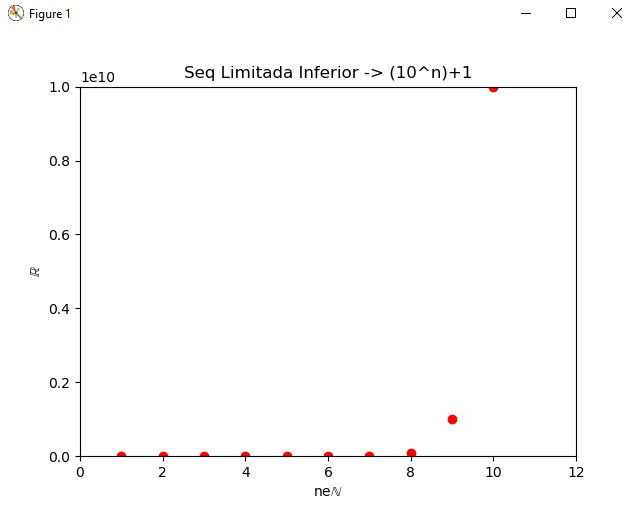
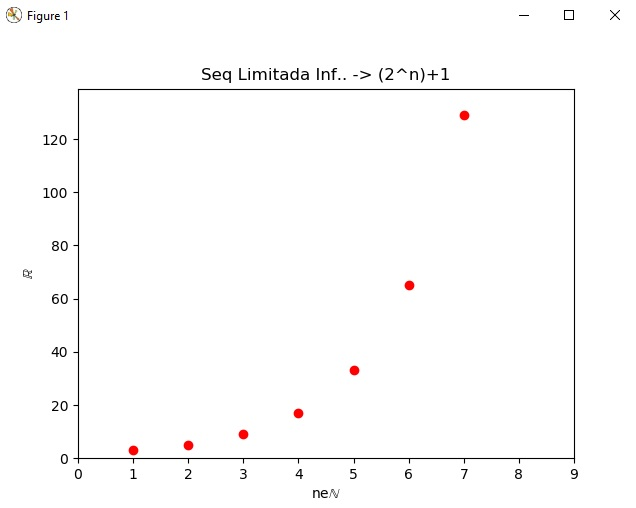
Limite Inferior com novo gerador e imagem

diff --git a/SEQUENCIAS/limitada_inferiormente.py b/SEQUENCIAS/limitada_inferiormente.py
@@ -3,10 +3,10 @@ import matplotlib.pyplot as plt
 import numpy as np
 
 #Num = é o numero de pontos que irá formar no gráfico
-x = np.linspace(1,10,num=10, endpoint=True)
+x = np.linspace(1,7,num=7, endpoint=True)
 
-#Cálculo (10^n + 1)
-y = [(10**t)+1 for t in x]
+#Cálculo (2^n + 1)
+y = [(2**t)+1 for t in x]
 
 plt.plot(x, y, 'ro')
 
@@ -17,9 +17,9 @@ plt.xlabel('ne'r'$\mathbb{N}$')
 plt.ylabel(r'$\mathbb{R}$')
 
 #Titulo
-plt.title('Seq Limitada Inf.. -> (10^n)+1')
+plt.title('Seq Limitada Inf.. -> (2^n)+1')
 
-plt.axis((0, max(x)+ 2, 0, 1))
+plt.axis((0, max(x)+ 2, 0, max(y)+10))
 
 #Gera o grafico final
 plt.show()
